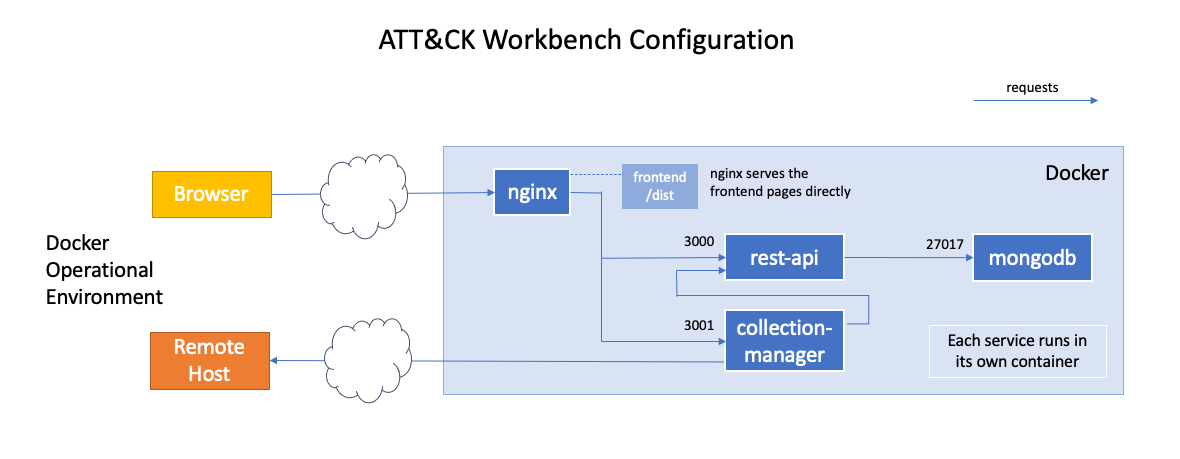
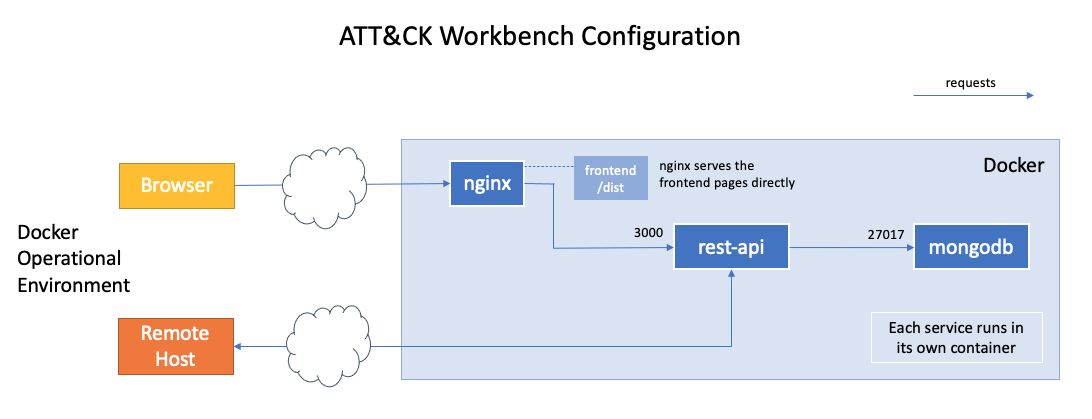
Removing Collection Manager integration (#477)
* removing collection manager refs

* removing refs to collection manager

* updated diagrams

* removing unecessary collection manager env refs

* Update docker-compose.certs.yml

* doc updates

---------

diff --git a/app/src/environments/environment.ts b/app/src/environments/environment.ts
@@ -4,34 +4,32 @@ import { NgxLoggerLevel } from 'ngx-logger'
 // The list of file replacements can be found in `angular.json`.
 
 export const environment = {
-    production: false,
-    log_level: NgxLoggerLevel.INFO,
-    recommended_indexes: [ //recommended collection indexes shown to user if they have no indexes loaded
-        {
-            "name": "MITRE ATT&CK", //index name
-            "url": "https://raw.githubusercontent.com/mitre-attack/attack-stix-data/master/index.json" //index url
-        }
-    ],
-    integrations: {
-        rest_api: {
-            // configuration for the ATT&CK Workbench REST API
-            // https://github.com/center-for-threat-informed-defense/attack-workbench-rest-api
-            enabled: true, // MUST be true for application operation
-            url: "http://localhost:3000/api"
-        },
-        collection_manager: {
-            // configuration for the ATT&CK Workbench Collection Manager
-            // https://github.com/center-for-threat-informed-defense/attack-workbench-collection-manager
-            enabled: true, //if false, all systems for collection management will be disabled
-            url: "http://localhost:3001/cm-api"
-        },
-        attack_website: {
-          // configuration for the ATT&CK Website
-          // https://github.com/mitre-attack/attack-website
-          enabled: false, // if false, the ATT&CK website integration will not work
-          url: "http://localhost:8000"
-        }
-    }
+	production: false,
+	log_level: NgxLoggerLevel.INFO,
+	recommended_indexes: [ //recommended collection indexes shown to user if they have no indexes loaded
+		{
+			"name": "MITRE ATT&CK", //index name
+			"url": "https://raw.githubusercontent.com/mitre-attack/attack-stix-data/master/index.json" //index url
+		}
+	],
+	integrations: {
+		rest_api: {
+			// configuration for the ATT&CK Workbench REST API
+			// https://github.com/center-for-threat-informed-defense/attack-workbench-rest-api
+			enabled: true, // MUST be true for application operation
+			url: "http://localhost:3000/api"
+		},
+		collection_manager: {
+			// configuration for the ATT&CK Workbench REST API Collection Manager
+			enabled: true, // if false, all components for collection management will be disabled
+		},
+		attack_website: {
+			// configuration for the ATT&CK Website
+			// https://github.com/mitre-attack/attack-website
+			enabled: false, // if false, the ATT&CK website integration will not work
+			url: "http://localhost:8000"
+		}
+	}
 };
 
 /*

diff --git a/app/src/environments/environment.prod.ts b/app/src/environments/environment.prod.ts
@@ -1,31 +1,29 @@
 import { NgxLoggerLevel } from 'ngx-logger'
 export const environment = {
-    production: true,
-    log_level: NgxLoggerLevel.ERROR,
-    recommended_indexes: [ //recommended collection indexes shown to user if they have no indexes loaded
-        {
-            "name": "MITRE ATT&CK", //index name
-            "url": "https://raw.githubusercontent.com/mitre-attack/attack-stix-data/master/index.json" //index url
-        }
-    ],
-    integrations: {
-        rest_api: {
-            // configuration for the ATT&CK Workbench REST API
-            // https://github.com/center-for-threat-informed-defense/attack-workbench-rest-api
-            enabled: true, // MUST be true for application operation
-            url: "api"
-        },
-        collection_manager: {
-            // configuration for the ATT&CK Workbench Collection Manager
-            // https://github.com/center-for-threat-informed-defense/attack-workbench-collection-manager
-            enabled: true, //if false, all systems for collection management will be disabled
-            url: "cm-api"
-        },
-        attack_website: {
-          // configuration for the ATT&CK Website
-          // https://github.com/mitre-attack/attack-website
-          enabled: false, // if false, the attack website integration will not work
-          url: "https://attack.mitre.org"
-        }
-    }
+	production: true,
+	log_level: NgxLoggerLevel.ERROR,
+	recommended_indexes: [ //recommended collection indexes shown to user if they have no indexes loaded
+		{
+			"name": "MITRE ATT&CK", //index name
+			"url": "https://raw.githubusercontent.com/mitre-attack/attack-stix-data/master/index.json" //index url
+		}
+	],
+	integrations: {
+		rest_api: {
+			// configuration for the ATT&CK Workbench REST API
+			// https://github.com/center-for-threat-informed-defense/attack-workbench-rest-api
+			enabled: true, // MUST be true for application operation
+			url: "api"
+		},
+		collection_manager: {
+			// configuration for the ATT&CK Workbench REST API Collection Manager
+			enabled: true, // if false, all components for collection management will be disabled
+		},
+		attack_website: {
+			// configuration for the ATT&CK Website
+			// https://github.com/mitre-attack/attack-website
+			enabled: false, // if false, attack website integration will be disabled
+			url: "https://attack.mitre.org"
+		}
+	}
 };

diff --git a/README.md b/README.md
@@ -46,12 +46,7 @@ The ATT&CK Workbench application is made up of several repositories. For the ful
   The front-end user interface for the ATT&CK Workbench tool, and the primary interface through which the knowledge base is accessed.
 - [ATT&CK Workbench REST API](https://github.com/center-for-threat-informed-defense/attack-workbench-rest-api)
 
-  REST API service for storing, querying and editing ATT&CK objects.
-- [ATT&CK Workbench Collection Manager](https://github.com/center-for-threat-informed-defense/attack-workbench-collection-manager)
-
-  REST API and services for managing collections, collection indexes, and collection subscriptions. 
-  
-  The collection manager is **not** required to be installed to use the ATT&CK Workbench, but is **highly recommended**. If you opt not to install the collection-manager you will not be able to import or export data from your local knowledge base. If the collection manager is not installed, set `integrations.collection_manager.enabled` to `false` in the front-end environment. See [modifying the environment](#modifying-the-environment) for more details.
+  REST API service for storing, querying and editing ATT&CK objects, as well as  for managing collections, collection indexes, and collection subscriptions.
 
 The manual install instructions in each repository describe how each component to be deployed to a separate machine or with customized settings. 
 
@@ -81,7 +76,7 @@ This step is necessary for cases where the app is deployed locally through `ng s
 If you're building the app for production, use `ng build --prod` which will use the production environment instead of the development environment. See [modifying the environment](#modifying-the-environment) for more information.
 
 #### Modifying the environment
-The ATT&CK Workbench Frontend is configured to connect to the Collection Manager and REST API running under their default configurations. If those applications are configured to run on different ports, or if the application is to be hosted for access on multiple machines, the environment must be edited to reflect their URLs and ports.
+The ATT&CK Workbench Frontend is configured to connect to the REST API running under its default configuration. If the applications is configured to run on a different port, or if the application is to be hosted for access on multiple machines, the environment must be edited to reflect the URLs and port.
 
 These environment properties can be edited under `src/environments`:
 - [src/environments/environment.ts](app/src/environments/environment.ts) is the development environment with configurations for when it is hosted on a local machine or is being actively developed. This is the default environment file used when building the application.

diff --git a/docs/docker-compose.md b/docs/docker-compose.md
@@ -4,7 +4,7 @@ This document describes how to install the ATT&CK Workbench components using Doc
 
 ## 1. Download required repositories
 
-In addition to this project, the [ATT&CK Workbench REST API](https://github.com/center-for-threat-informed-defense/attack-workbench-rest-api) and [ATT&CK Workbench Collection Manager](https://github.com/center-for-threat-informed-defense/attack-workbench-collection-manager) projects must be pulled from their github repositories.
+In addition to this project, the [ATT&CK Workbench REST API](https://github.com/center-for-threat-informed-defense/attack-workbench-rest-api) project must be pulled from its github repository.
 
 These projects must be placed under a common parent directory:
 
@@ -12,15 +12,12 @@ These projects must be placed under a common parent directory:
 |-- <common parent directory>
     |-- attack-workbench-frontend
     |-- attack-workbench-rest-api
-    |-- attack-workbench-collection-manager
 ```
 
-To perform all three clones as required (including the clone of this repository), you can use the following commands from your working directory:
+To perform all clones as required (including the clone of this repository), you can use the following commands from your working directory:
 ```shell
 # download the front-end repository
 git clone https://github.com/center-for-threat-informed-defense/attack-workbench-frontend.git
-# download the collection manager repository
-git clone https://github.com/center-for-threat-informed-defense/attack-workbench-collection-manager.git
 # download the REST API repository
 git clone https://github.com/center-for-threat-informed-defense/attack-workbench-rest-api.git
 ```
@@ -82,12 +79,11 @@ docker-compose up --build
 When deployed using Docker Compose, an ATT&CK Workbench installation will include four containers:
 * frontend
 * rest-api
-* collection-manager
 * mongodb
 
 These containers will communicate as illustrated in the diagram below.
 The `nginx` instance (part of the `frontend` container) is responsible for serving the statically built code for the ATT&CK Workbench web application.
-It also acts as a reverse proxy for the `rest-api` and `collection-manager` services.
+It also acts as a reverse proxy for the `rest-api` service.
 
 ![Workbench Configuration](images/workbench-configuration-docker-compose.png)
 

diff --git a/docs/contributing.md b/docs/contributing.md
@@ -4,7 +4,7 @@ Thanks for contributing to `attack-workbench-frontend`!
 
 You are welcome to comment on issues, open new issues, and open pull requests.
 
-Pull requests should target the **develop** branch of the repository. If your pull request is reliant on changes to the [REST API](https://github.com/center-for-threat-informed-defense/attack-workbench-rest-api) or [Collection Manager](https://github.com/center-for-threat-informed-defense/attack-workbench-collection-manager/), please make sure to document this in your pull request and link to the corresponding REST API or Collection Manager pull request.
+Pull requests should target the **develop** branch of the repository. If your pull request is reliant on changes to the [REST API](https://github.com/center-for-threat-informed-defense/attack-workbench-rest-api), please make sure to document this in your pull request and link to the corresponding REST API pull request.
 
 Also, if you contribute any source code, we need you to agree to the following Developer's Certificate of Origin below.
 
